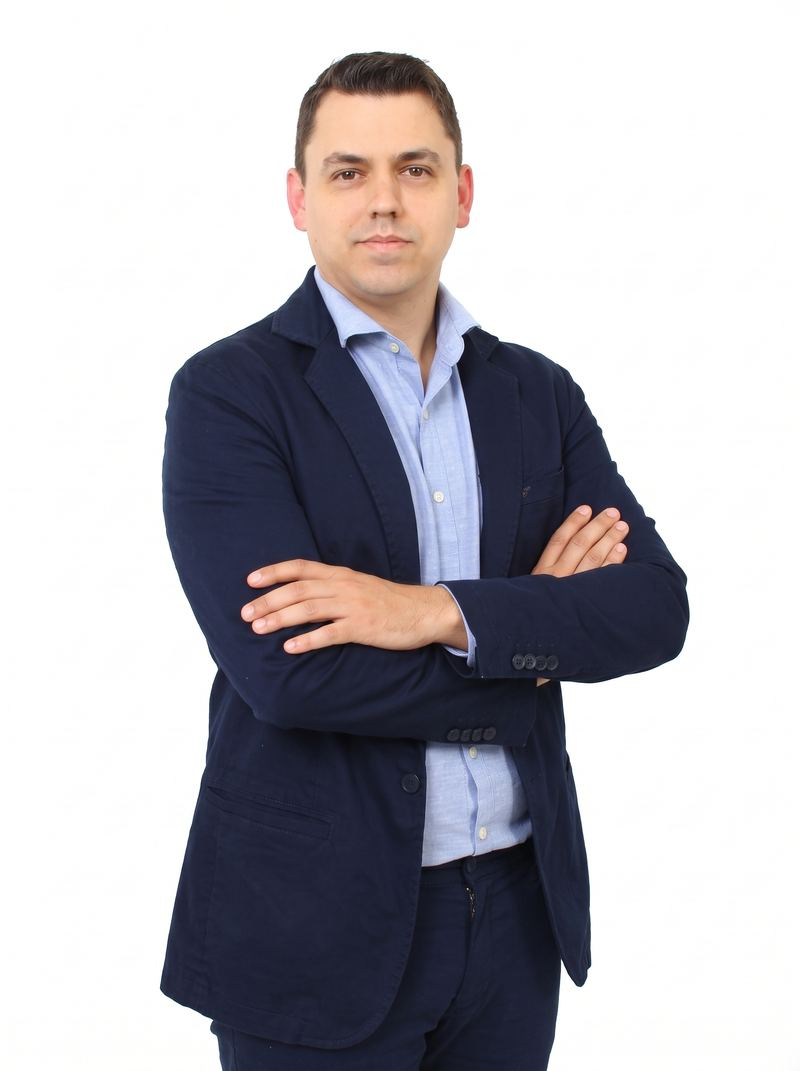
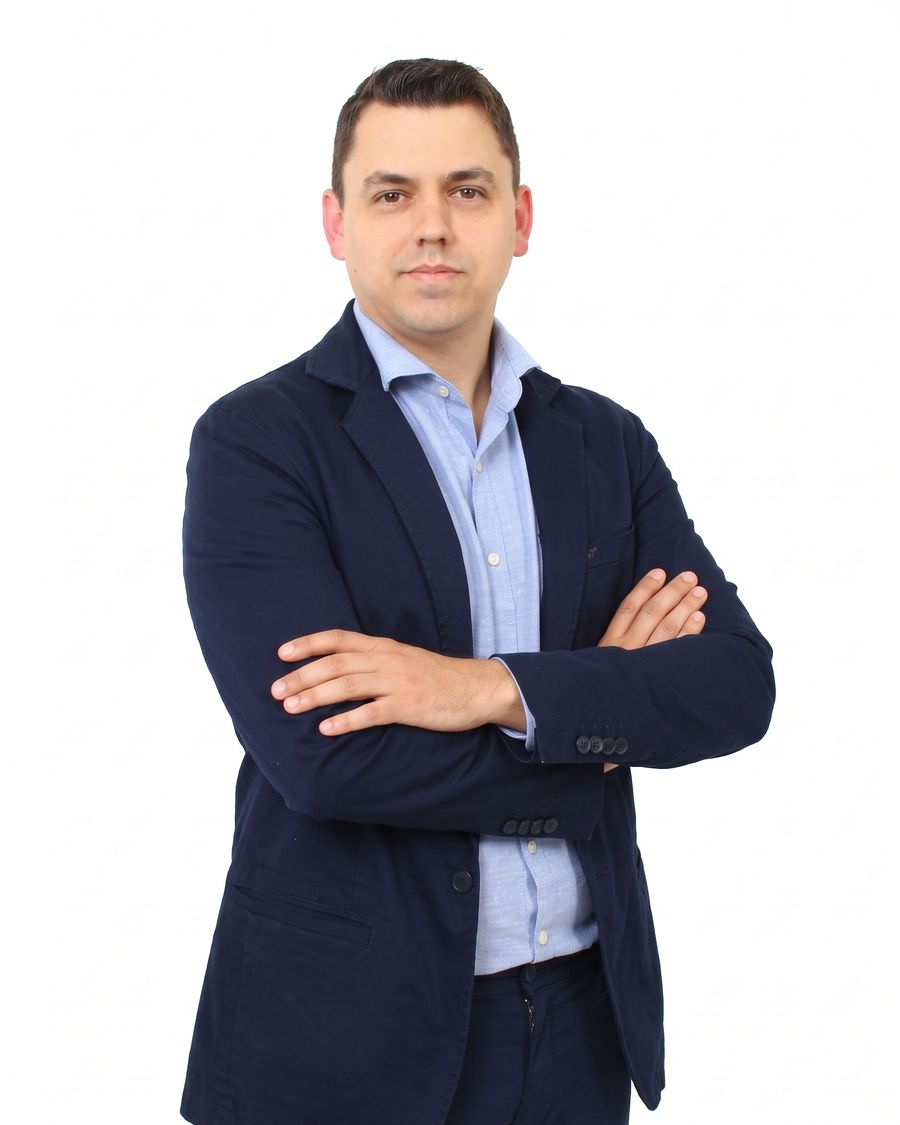
fix: nova foto na chamada final
Claude-Session: https://claude.ai/code/session_01HBZNejNsQDhFpRgaAyhxW9

Changed region(s): [[0.1875, 0.0308, 0.875, 1.0], [0.5, 0.9552, 0.5625, 1.0]]

diff --git a/index.html b/index.html
@@ -707,7 +707,7 @@ footer a:hover{color:var(--ink)}
         <span class="phone">(35) 99971-0419</span>
       </div>
     </div>
-    <figure class="foto has-img r-34"><img src="img/willian-castilho-contato.jpg" alt="Willian Castilho de braços cruzados, de blazer azul" width="800" height="1071" loading="lazy" decoding="async"></figure>
+    <figure class="foto has-img r-45"><img src="img/willian-castilho-contato.jpg" alt="Willian Castilho de braços cruzados, blazer azul-marinho" width="900" height="1125" loading="lazy" decoding="async"></figure>
   </div>
 </section>
 
